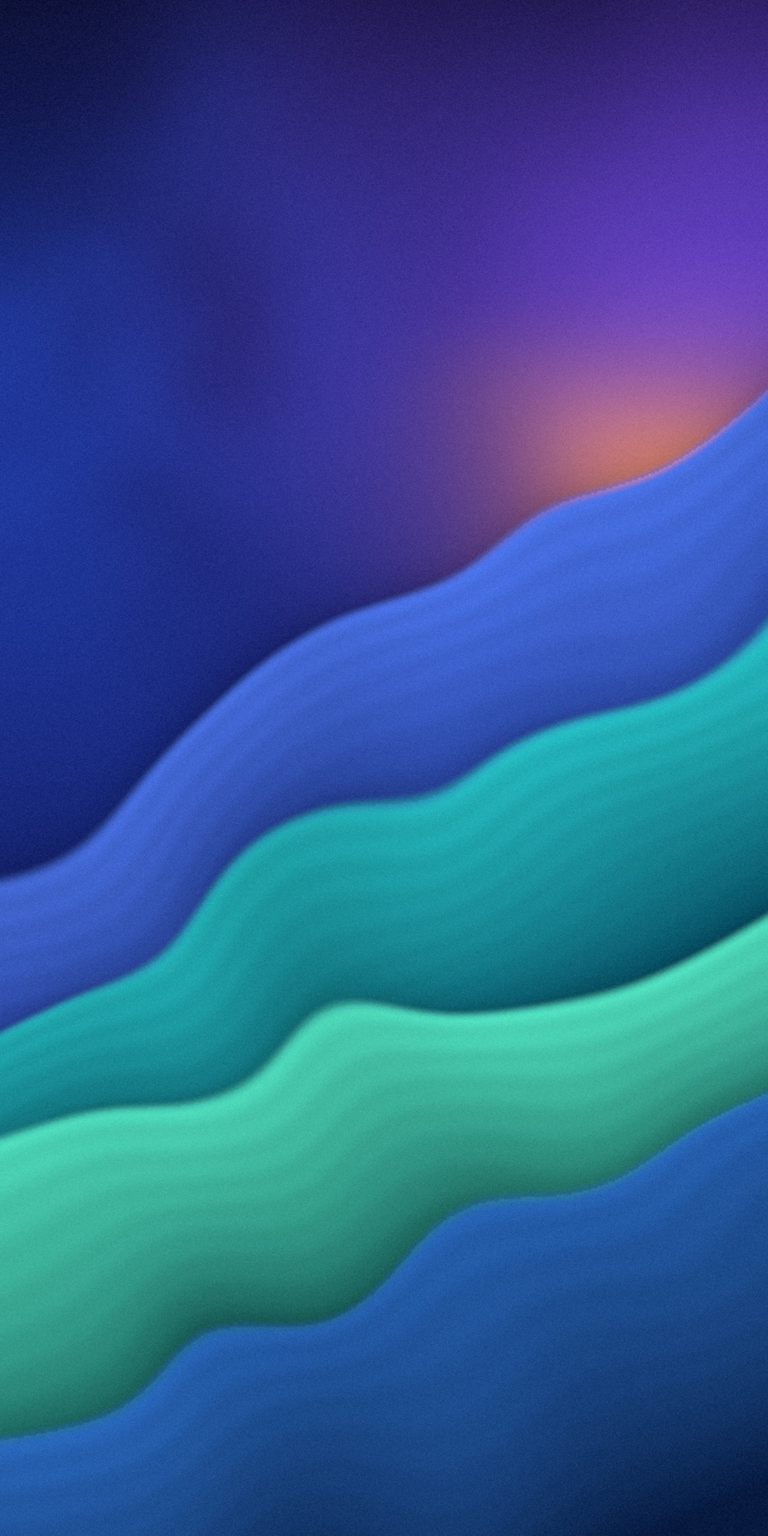
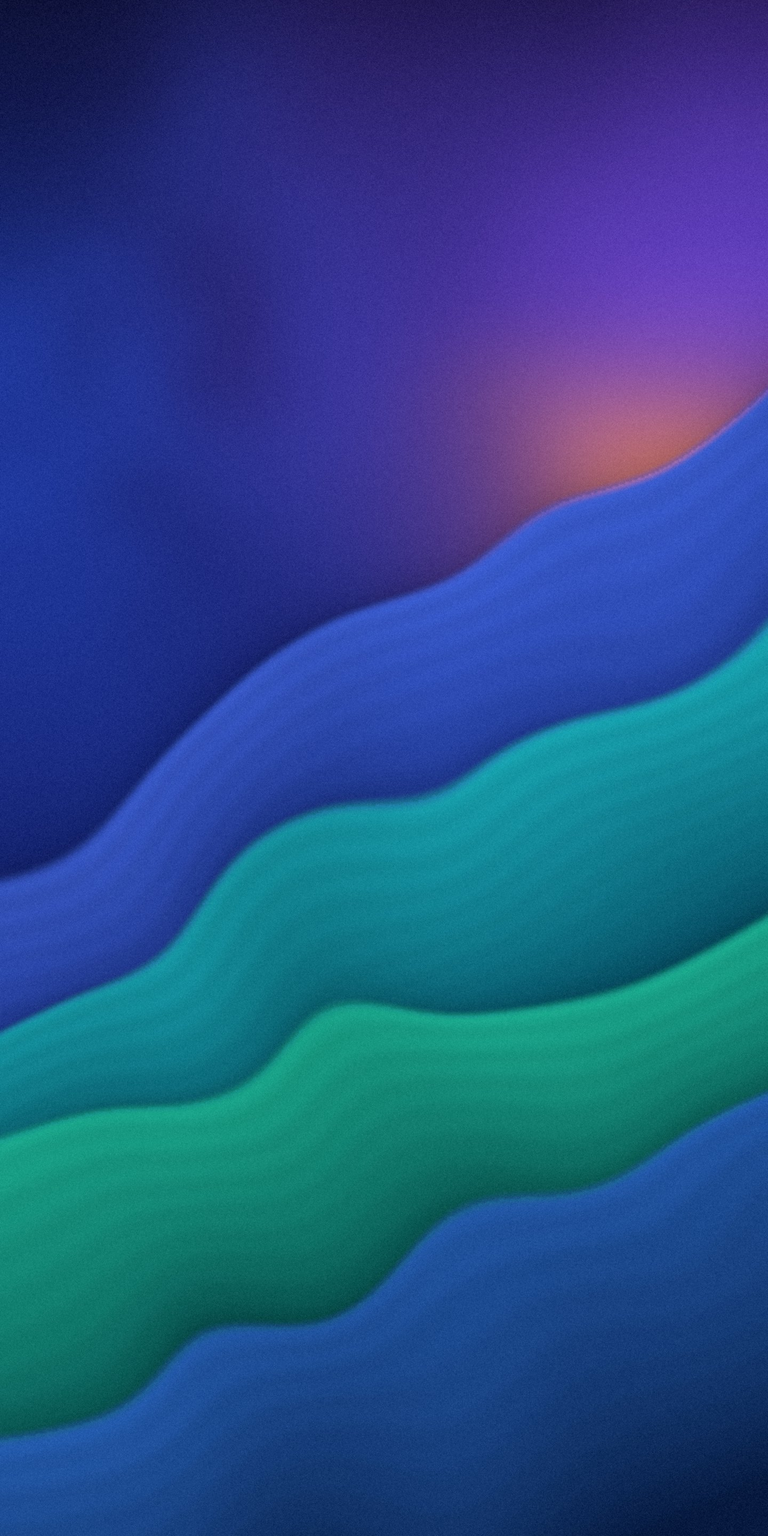
fix(wallpapers): dim Tidewater's crests for label contrast
The bright teal and blue crests left white launcher labels and lock
hints near 1.6:1. Darker rims and a softer glow keep the colour and
grain but bring the worst white-on-wallpaper contrast to 2.9:1 (3:1 or
better over 99.9% of the image); mean luma 0.33 -> 0.29.

diff --git a/scripts/build-tidewater-wallpaper.py b/scripts/build-tidewater-wallpaper.py
@@ -84,11 +84,11 @@ img = top + (mid - top) * np.clip(y / 0.95, 0, 1)[..., None]
 sky = fbm(fw, fh, 3, 3)
 img = over(img, lin("#2a52d8"), 0.55 * blob(0.0, 0.55, 0.55, 0.45) * sky * 1.4)
 img = over(img, lin("#6a45d2"), 0.85 * blob(0.95, 0.38, 0.6, 0.42))
-img = over(img, lin("#ff9a66"), 0.90 * blob(0.92, 0.63, 0.30, 0.20))
-img = wave(img, 1.05, 0.55, 0.06, 1.1, 0.4, "#18338f", "#4a72e6")
-img = wave(img, 1.32, 0.50, 0.07, 0.9, 2.1, "#08566e", "#23b3b8")
-img = wave(img, 1.55, 0.40, 0.05, 1.3, 4.0, "#06464f", "#4fdcbc")
-img = wave(img, 1.80, 0.30, 0.05, 1.0, 1.0, "#071a40", "#2763b4")
+img = over(img, lin("#f08a5a"), 0.85 * blob(0.92, 0.63, 0.30, 0.20))
+img = wave(img, 1.05, 0.55, 0.06, 1.1, 0.4, "#18338f", "#3a5bcc")
+img = wave(img, 1.32, 0.50, 0.07, 0.9, 2.1, "#08566e", "#169aa6")
+img = wave(img, 1.55, 0.40, 0.05, 1.3, 4.0, "#06464f", "#1aa68a")
+img = wave(img, 1.80, 0.30, 0.05, 1.0, 1.0, "#071a40", "#2257a6")
 
 # A slow light-and-shadow wash, then upsample.
 img *= (0.82 + 0.36 * fbm(fw, fh, 2, 3))[..., None]
